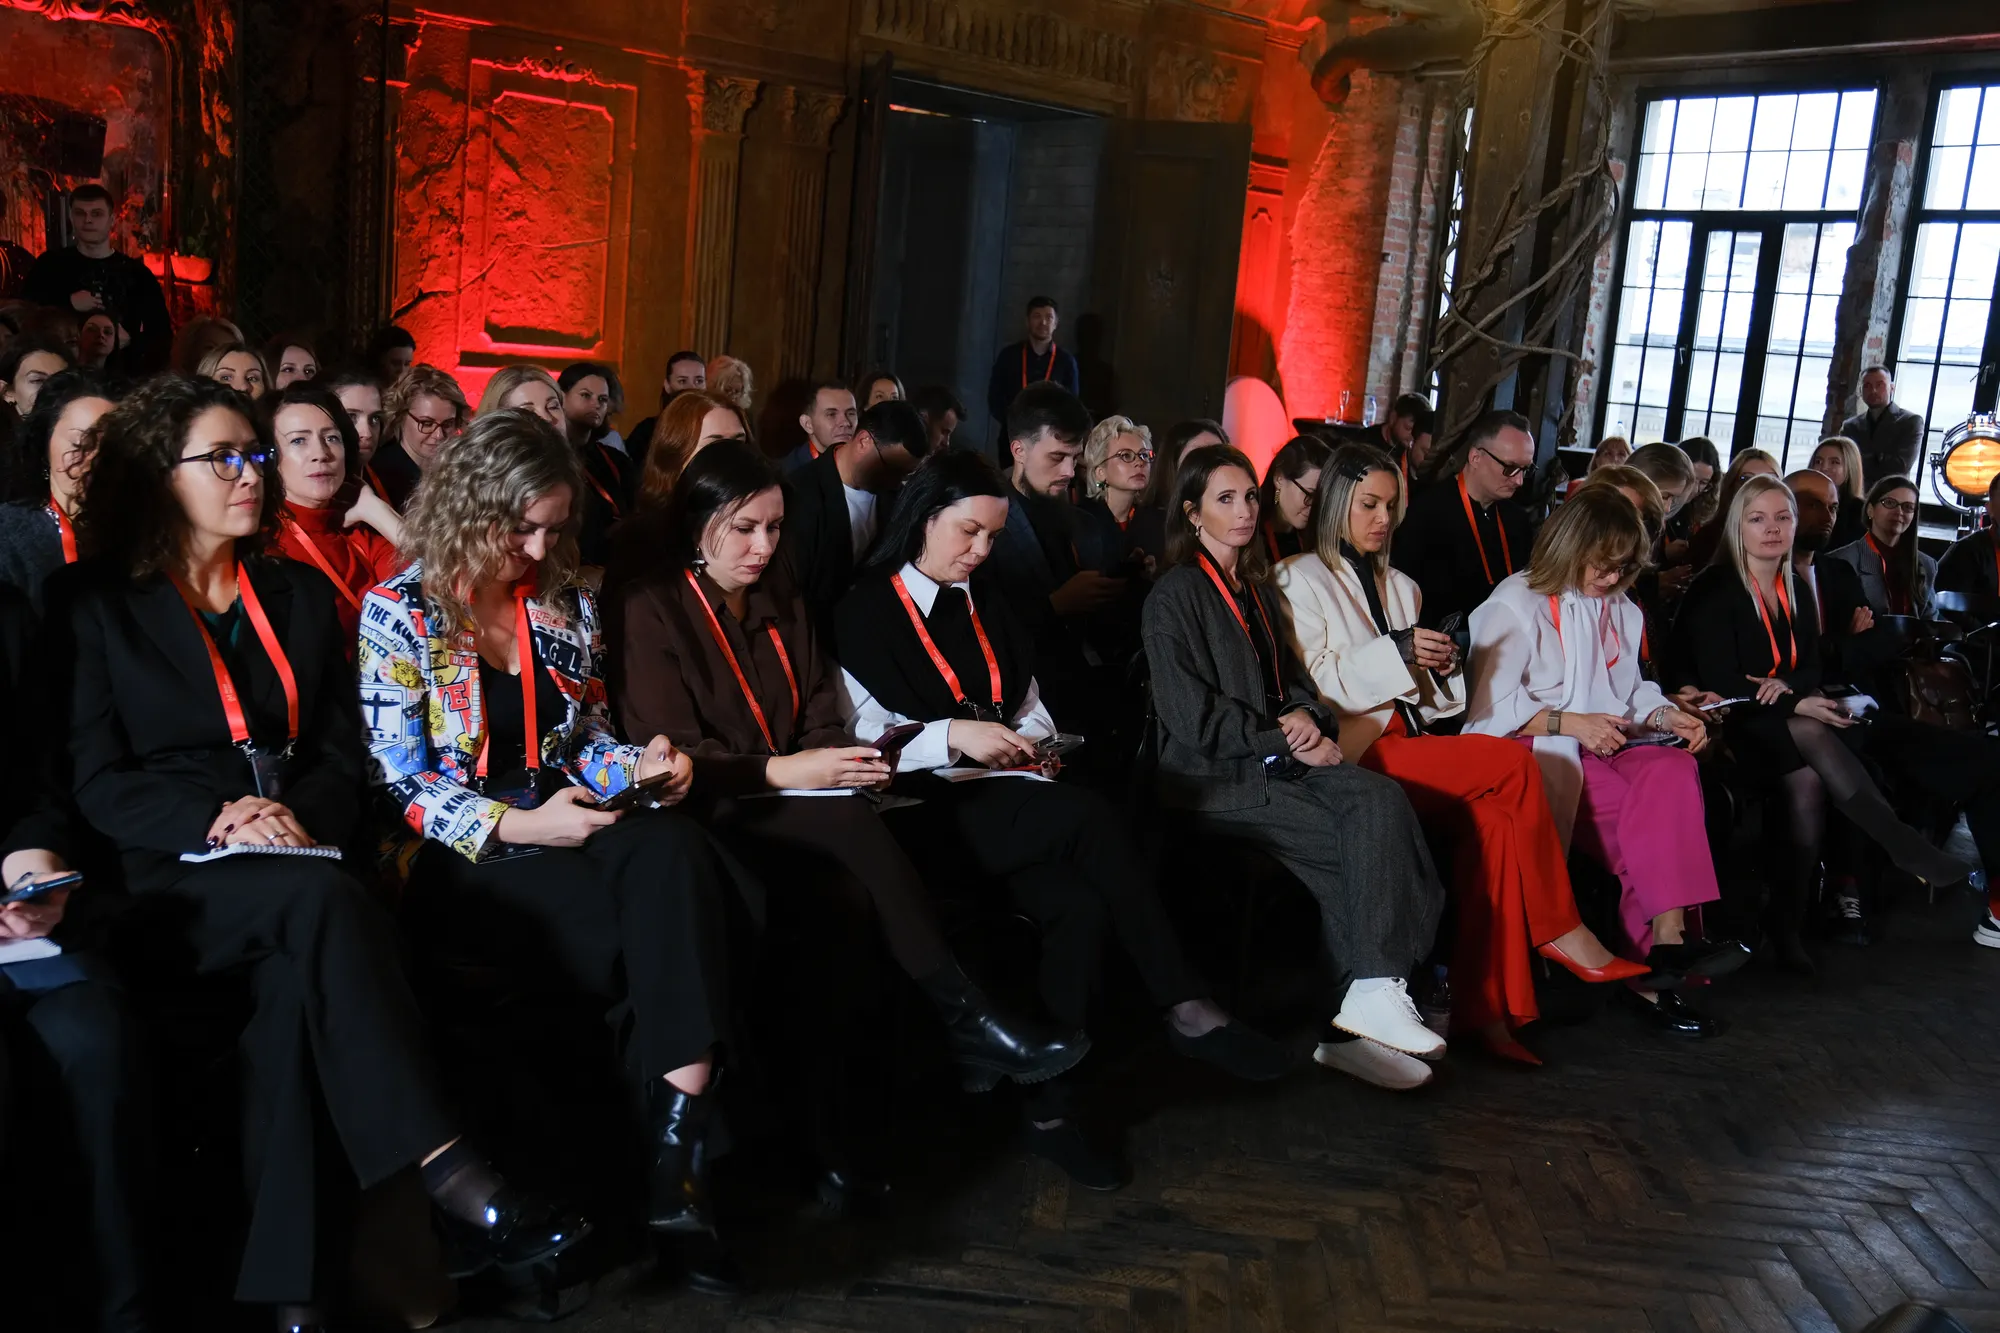
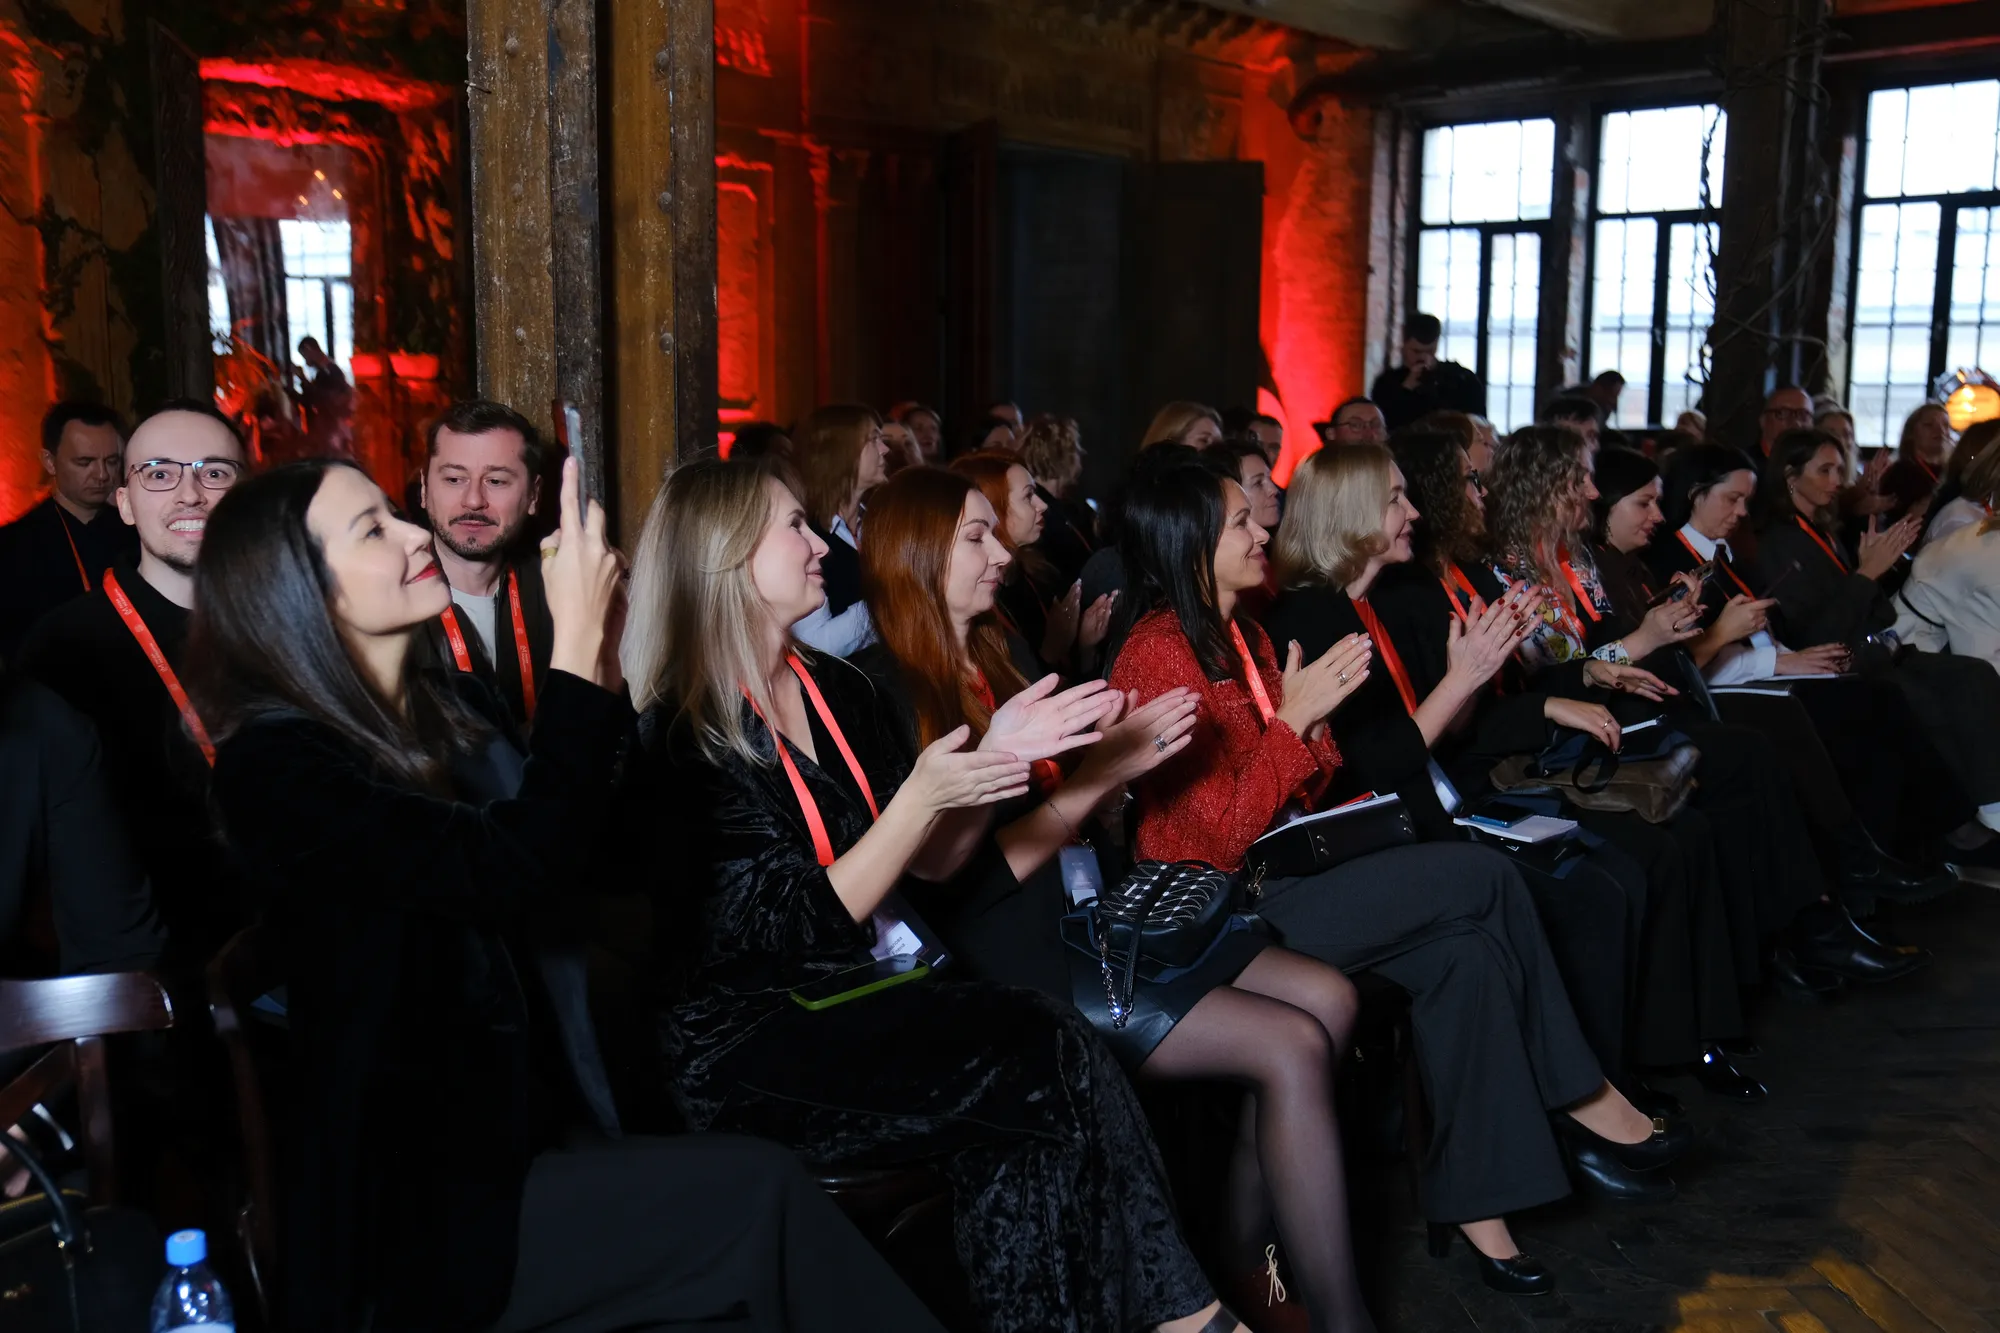
Фото в блоке «Что есть», новое фото шапки, меню без «Видео»
- Карточки «Что есть в сообществе» с фотографиями: на компьютере сетка,
  на телефоне открытые карточки в карусели со свайпом.
- Шапка: фото зала DSCF6044 в полном размере.
- Кнопка у участников: «Посмотреть ещё» вместо «Показать всех (18)».
- Из меню и футера убран пункт «Видео».

diff --git a/src/components/CommunitySections.tsx b/src/components/CommunitySections.tsx
@@ -33,8 +33,50 @@ const SocialButton: React.FC<{ social: SocialLink }> = ({ social }) => (
 /** Сколько достижений основателя видно на телефоне до нажатия «Ещё». */
 const FOUNDER_HIGHLIGHTS_MOBILE = 3;
 
+const FeatureCardView: React.FC<{ item: FeatureCard; dark?: boolean }> = ({ item, dark }) => (
+  <article
+    className={`group rounded-[16px] overflow-hidden flex flex-col ${dark ? 'bg-white' : 'bg-white border border-[#1a1612]/[0.08]'}`}
+  >
+    {item.photo && (
+      <div className="aspect-[16/10] overflow-hidden bg-[#3c3836]">
+        <img
+          src={item.photo}
+          alt={item.title}
+          loading="lazy"
+          decoding="async"
+          className="w-full h-full object-cover transition-transform duration-700 group-hover:scale-[1.04]"
+        />
+      </div>
+    )}
+    <div className="flex-1 p-6 sm:p-8 flex flex-col justify-between gap-6">
+      <div>
+        {!item.photo && <img src={item.icon} alt="" className="w-6 h-6" />}
+        <h3 className={`${item.photo ? '' : 'mt-5 '}font-headline text-[#020201] text-[19px] font-semibold leading-[1.3]`}>{item.title}</h3>
+        <p className="mt-3 text-[#3c3836] text-[14px] leading-[1.6]">{item.description}</p>
+      </div>
+      <span className="self-start rounded-[4px] bg-[#f9cd60] px-3 py-1 text-[#020201] text-[12px] sm:text-[10px] font-bold tracking-[1.2px] uppercase">
+        {item.frequency}
+      </span>
+    </div>
+  </article>
+);
+
 const FeatureGrid: React.FC<{ items: FeatureCard[]; dark?: boolean }> = ({ items, dark }) => {
   const [open, setOpen] = useState<number | null>(null);
+
+  // Карточки с фото: на телефоне — открытые карточки в карусели со свайпом, с планшета — сетка
+  if (items.some((item) => item.photo)) {
+    return (
+      <MobileSwiper
+        tone={dark ? 'dark' : 'light'}
+        className="mt-7 sm:mt-10 lg:mt-[56px] sm:grid sm:grid-cols-1 md:grid-cols-2 lg:grid-cols-3 sm:gap-6"
+      >
+        {items.map((item) => (
+          <FeatureCardView key={item.title} item={item} dark={dark} />
+        ))}
+      </MobileSwiper>
+    );
+  }
 
   return (
     <>
@@ -69,21 +111,7 @@ const FeatureGrid: React.FC<{ items: FeatureCard[]; dark?: boolean }> = ({ items
 
       <div className="hidden sm:grid mt-7 sm:mt-10 lg:mt-[56px] grid-cols-1 md:grid-cols-2 lg:grid-cols-3 gap-6">
         {items.map((item) => (
-          <article
-            key={item.title}
-            className={`rounded-[16px] p-7 sm:p-8 flex flex-col justify-between gap-6 ${
-              dark ? 'bg-white' : 'bg-white border border-[#1a1612]/[0.08]'
-            }`}
-          >
-            <div>
-              <img src={item.icon} alt="" className="w-6 h-6" />
-              <h3 className="mt-5 font-headline text-[#020201] text-[19px] font-semibold leading-[1.3]">{item.title}</h3>
-              <p className="mt-3 text-[#3c3836] text-[14px] leading-[1.6]">{item.description}</p>
-            </div>
-            <span className="self-start rounded-[4px] bg-[#f9cd60] px-3 py-1 text-[#020201] text-[12px] sm:text-[10px] font-bold tracking-[1.2px] uppercase">
-              {item.frequency}
-            </span>
-          </article>
+          <FeatureCardView key={item.title} item={item} dark={dark} />
         ))}
       </div>
     </>

diff --git a/src/data/siteContent.ts b/src/data/siteContent.ts
@@ -21,6 +21,8 @@ export interface FeatureCard {
   description: string;
   frequency: string;
   icon: string;
+  /** Фото с мероприятий сообщества — если есть, карточка показывается с фотографией вместо иконки. */
+  photo?: string;
 }
 
 export interface SingleTariff {
@@ -103,7 +105,6 @@ export const ASSETS = {
 
 export const NAV_LINKS = [
   { label: 'Для\u00A0кого', href: '#dlyakogo' },
-  { label: 'Видео', href: '#video' },
   { label: 'Участники', href: '#uchastniki' },
   { label: 'Отзывы', href: '#otzyvy' },
   { label: 'Эксперты', href: '#eksperty' },
@@ -213,30 +214,35 @@ export const COMMUNITY_HAS: FeatureCard[] = [
     description: 'Живые встречи и\u00A0обмен энергией. Знакомимся с\u00A0резидентами в\u00A0уютной неформальной обстановке, делимся\u00A0опытом.',
     frequency: 'Раз в\u00A0месяц',
     icon: ASSETS.iconEvents,
+    photo: withBase('/images/community/brunch.webp'),
   },
   {
     title: 'Random Coffee',
     description: 'Каждую неделю возможность познакомиться с\u00A0коллегой, выпить кофе (можно и\u00A0онлайн) и\u00A0спокойно поговорить один на\u00A0один.',
     frequency: 'Раз в\u00A0неделю',
     icon: ASSETS.iconGroups,
+    photo: withBase('/images/community/random-coffee.webp'),
   },
   {
     title: 'Прямые эфиры с\u00A0ведущими экспертами',
     description: 'Реальный опыт и\u00A0рабочие инструменты для\u00A0развития вас, команды или\u00A0клиники: управление, маркетинг, HR, личный бренд, психологическая поддержка и\u00A0пр.',
     frequency: 'Несколько раз в\u00A0неделю',
     icon: ASSETS.iconChannel,
+    photo: withBase('/images/community/efiry.webp'),
   },
   {
     title: 'Экскурсии в\u00A0клиники',
     description: 'Увидеть опыт коллег, посмотреть, как\u00A0устроена другая клиника, задать интересующие вопросы её\u00A0топ-команде и\u00A0собственникам.',
     frequency: 'Раз в\u00A0месяц',
     icon: ASSETS.iconEvents,
+    photo: withBase('/images/community/ekskursii.webp'),
   },
   {
     title: 'Закрытый чат',
     description: 'Смело пишите о\u00A0своей проблеме, просите контакт, спрашивайте, как\u00A0поступали коллеги в\u00A0подобной ситуации. Здесь можно быстро найти нужного человека, рабочий совет и\u00A0настоящую поддержку.',
     frequency: '24/7',
     icon: ASSETS.iconChat,
+    photo: withBase('/images/community/chat.webp'),
   },
 ];
 

diff --git a/src/components/PeopleSections.tsx b/src/components/PeopleSections.tsx
@@ -14,7 +14,7 @@ const mobileHidden = (index: number, expanded: boolean) => !expanded && index >=
 /** Фото автора отзыва берём из карточки участника с тем же именем. */
 const participantPhoto = (name: string) => PARTICIPANTS.find((p) => p.name === name)?.photo;
 
-const ShowAllButton: React.FC<{ total: number; onClick: () => void; tone: 'light' | 'white' }> = ({ total, onClick, tone }) => (
+const ShowAllButton: React.FC<{ onClick: () => void; tone: 'light' | 'white' }> = ({ onClick, tone }) => (
   <button
     type="button"
     onClick={onClick}
@@ -22,7 +22,7 @@ const ShowAllButton: React.FC<{ total: number; onClick: () => void; tone: 'light
       tone === 'light' ? 'border-[#020201]/15 bg-white' : 'border-[#1a1612]/[0.12] bg-[#faf7f1]'
     }`}
   >
-    Показать всех&nbsp;({total})
+    Посмотреть ещё
     <ChevronDown className="w-4 h-4" />
   </button>
 );
@@ -63,7 +63,7 @@ export const PeopleSections: React.FC = () => {
             ))}
           </div>
           {!allParticipants && (
-            <ShowAllButton total={PARTICIPANTS.length} onClick={() => setAllParticipants(true)} tone="light" />
+            <ShowAllButton onClick={() => setAllParticipants(true)} tone="light" />
           )}
         </div>
       </div>
